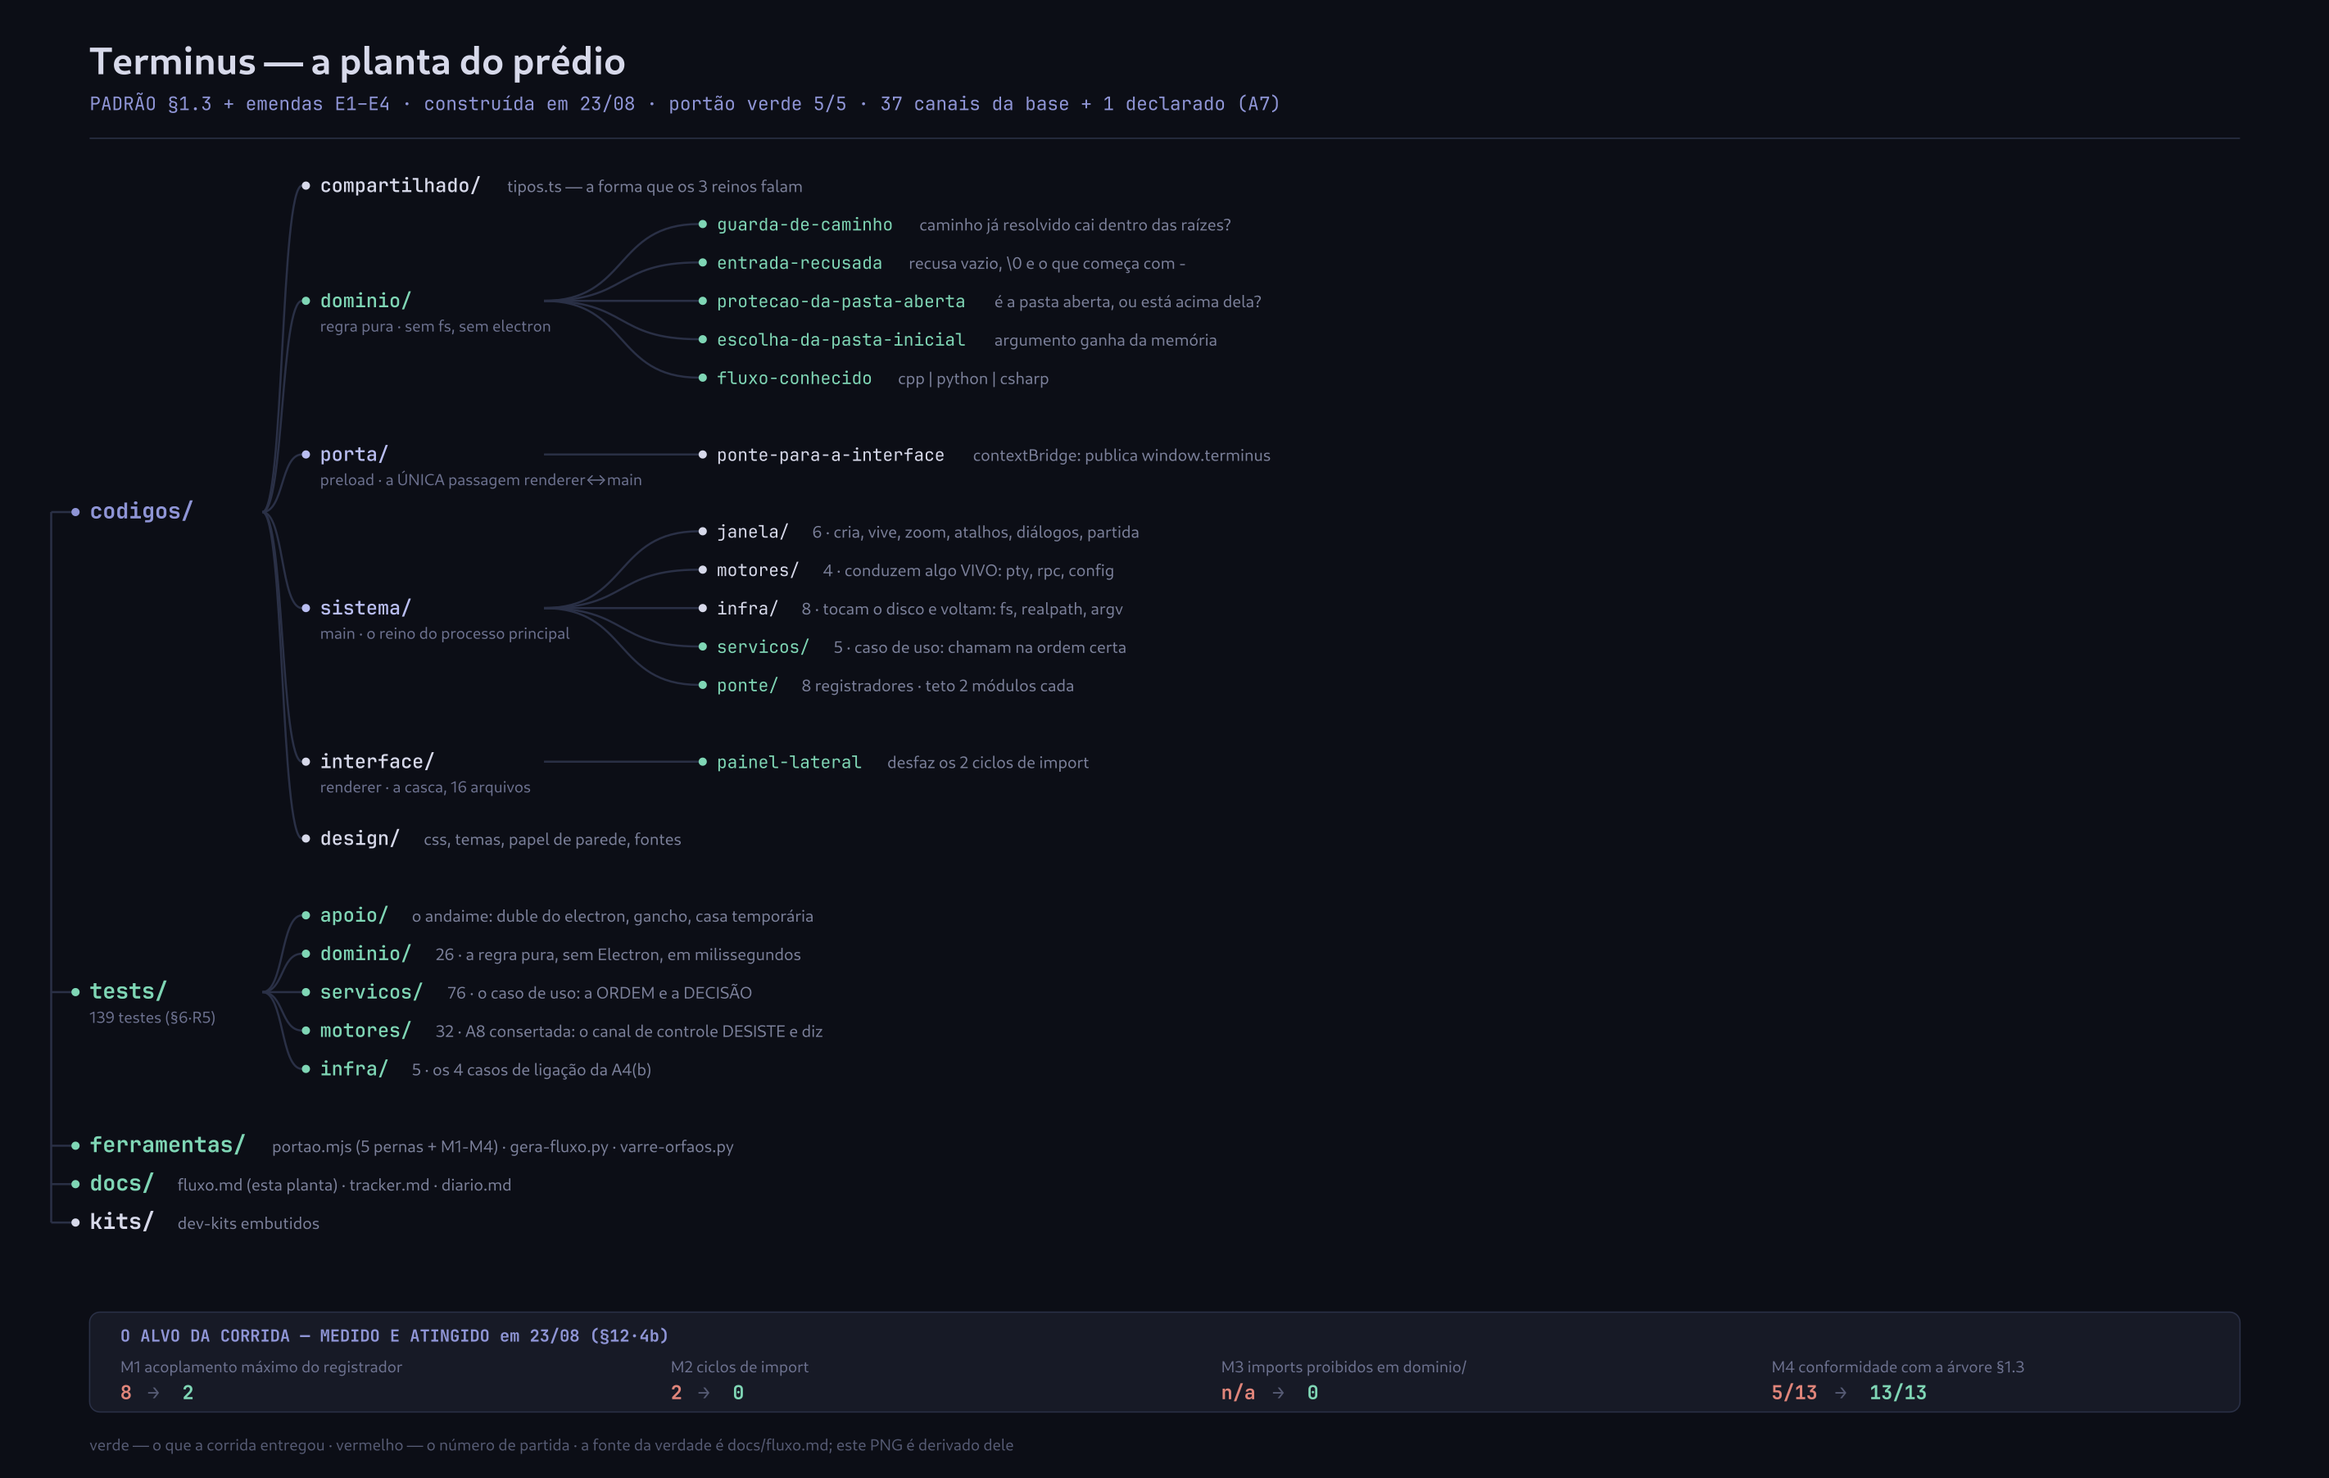
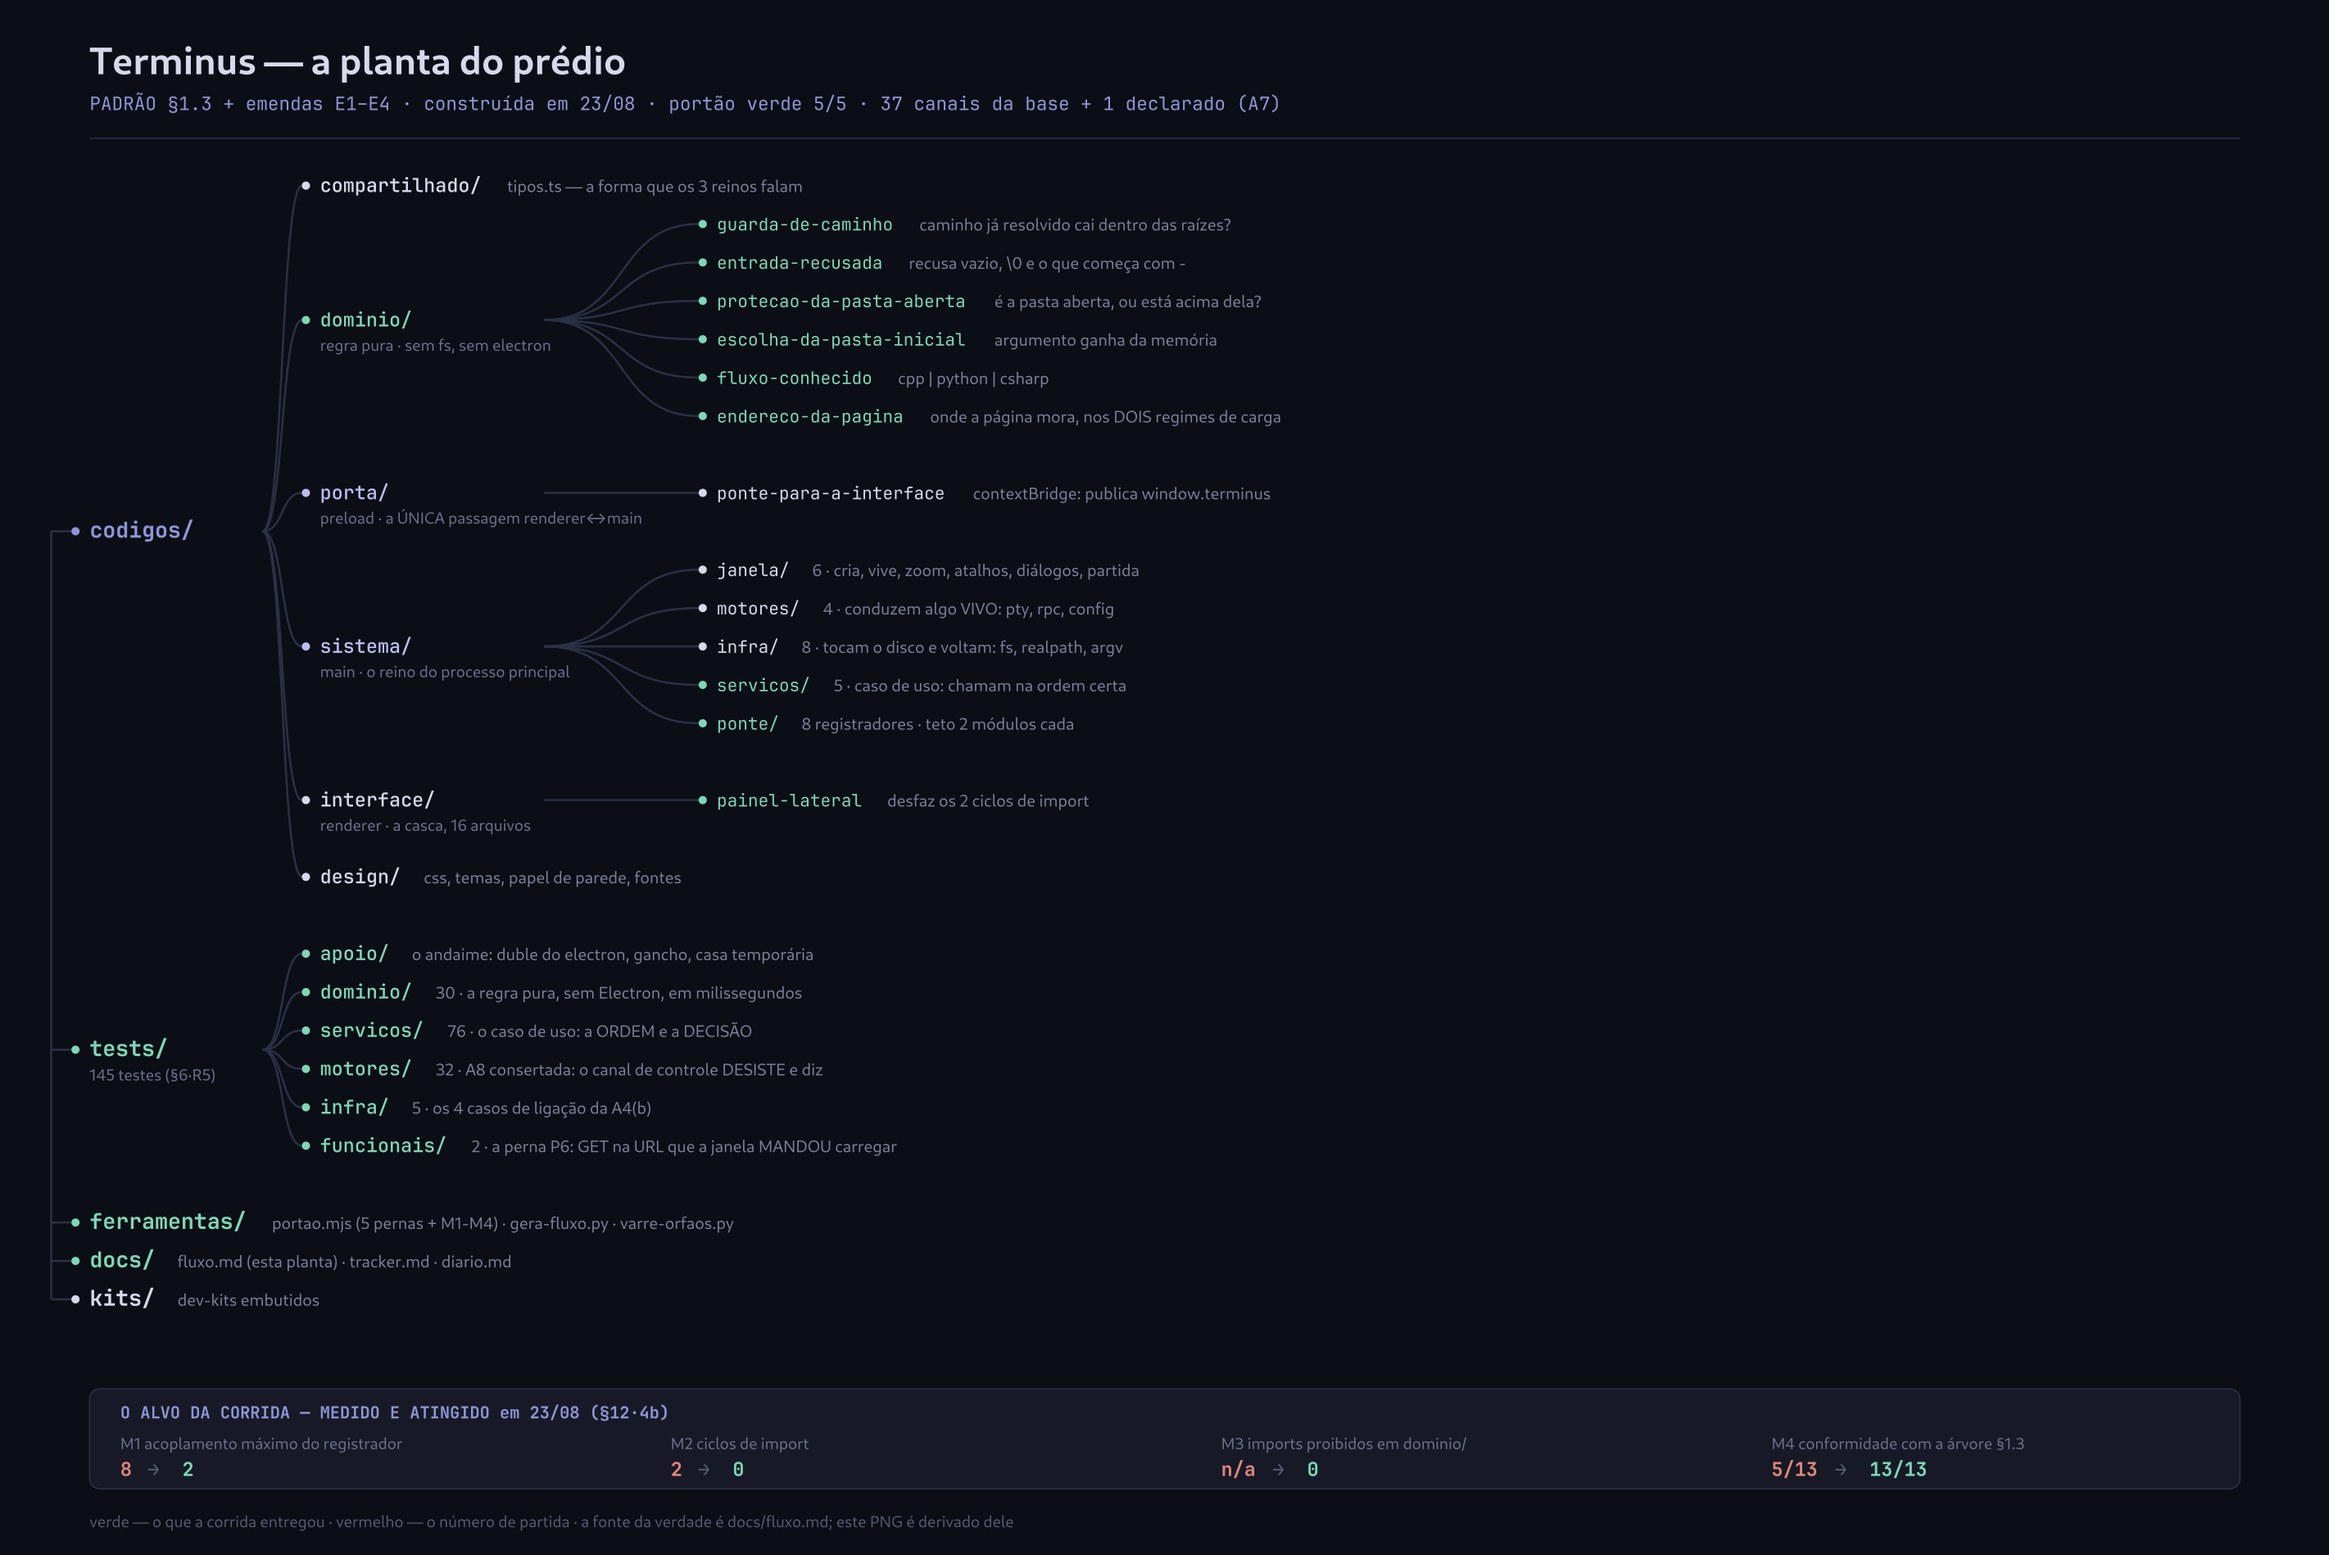
a planta acompanha o conserto: dominio novo, tests/funcionais e 139 -> 145
O gerador do PNG guarda a arvore DENTRO dele, entao mexer so no fluxo.md deixaria
o desenho mentindo. Os dois foram atualizados juntos: `endereco-da-pagina` entra
em dominio/, `tests/funcionais/` nasce como ramo, tests vai de 139 para 145 e o
ramo dominio dos testes de 26 para 30.

Receita seguida: a do cabecalho de gera-fluxo.py -- `python3` sem redirecionar,
depois `magick -background none -density 150 ... -strip`. A SEGUNDA receita, a de
fluxo.md:431, continua errada e continua sendo a arvore A13, em aberto: nao a usei
e nao a consertei.

Conferido, e nao por confianca: SVG 1820x1215 -> PNG 2843x1898, contra os
2844x1898 que 150/96 preve (1 px de arredondamento). E ABRI a imagem: os dois nos
novos aparecem com conector, rotulo e descricao, sem sobreposicao -- gerar nao e
aparecer, e isso ja custou duas vezes neste projeto.

A nota do desvio de planta foi atualizada em vez de apagada: tests/funcionais/
deixou de ser vao, mas a planta o pedia para A CONDUTA, que continua sendo a P5.
O desvio segue de pe e segue sendo da cabeca.

diff --git a/ferramentas/gera-fluxo.py b/ferramentas/gera-fluxo.py
@@ -48,7 +48,8 @@ raizes = [
       no("entrada-recusada",         "recusa vazio, \\0 e o que começa com ‑", NOVO),
       no("protecao-da-pasta-aberta", "é a pasta aberta, ou está acima dela?", NOVO),
       no("escolha-da-pasta-inicial", "argumento ganha da memória", NOVO),
-      no("fluxo-conhecido",          "cpp | python | csharp", NOVO)]),
+      no("fluxo-conhecido",          "cpp | python | csharp", NOVO),
+      no("endereco-da-pagina",       "onde a página mora, nos DOIS regimes de carga", NOVO)]),
    no("porta/", "preload · a ÚNICA passagem renderer↔main", ACENTO, [
       no("ponte-para-a-interface", "contextBridge: publica window.terminus", FG)]),
    no("sistema/", "main · o reino do processo principal", ACENTO, [
@@ -60,12 +61,13 @@ raizes = [
    no("interface/", "renderer · a casca, 16 arquivos", FG, [
       no("painel-lateral", "desfaz os 2 ciclos de import", NOVO)]),
    no("design/", "css, temas, papel de parede, fontes", FG)]),
- no("tests/", "139 testes (§6·R5)", NOVO, [
+ no("tests/", "145 testes (§6·R5)", NOVO, [
    no("apoio/",    "o andaime: duble do electron, gancho, casa temporária", NOVO),
-   no("dominio/",  "26 · a regra pura, sem Electron, em milissegundos", NOVO),
+   no("dominio/",  "30 · a regra pura, sem Electron, em milissegundos", NOVO),
    no("servicos/", "76 · o caso de uso: a ORDEM e a DECISÃO", NOVO),
    no("motores/",  "32 · A8 consertada: o canal de controle DESISTE e diz", NOVO),
-   no("infra/",    "5 · os 4 casos de ligação da A4(b)", NOVO)]),
+   no("infra/",    "5 · os 4 casos de ligação da A4(b)", NOVO),
+   no("funcionais/", "2 · a perna P6: GET na URL que a janela MANDOU carregar", NOVO)]),
  no("ferramentas/", "portao.mjs (5 pernas + M1-M4) · gera-fluxo.py · varre-orfaos.py", NOVO),
  no("docs/", "fluxo.md (esta planta) · tracker.md · diario.md", NOVO),
  no("kits/", "dev-kits embutidos", FG),

diff --git a/docs/fluxo.md b/docs/fluxo.md
@@ -30,6 +30,13 @@
 > continua sendo M1–M4 no portão, e conduta de tela continua sendo só a P5. `npm run teste`
 > ainda não pega quebra de arquitetura.
 >
+> ✅ **A corrida 7 (24/08) fez `tests/funcionais/` NASCER — e ele fecha METADE de meia coisa.**
+> A pasta existe e tem um morador: a perna **P6**, que sobe o servidor de `dev` e faz `GET` na
+> página que a janela de verdade mandou carregar. Mas a planta pedia `funcionais/` para **a
+> conduta**, e conduta de tela continua sendo a **P5**, que mora no portão. Então: a pasta
+> deixou de ser vão, `arquitetura/` continua não existindo, e **o desvio segue de pé** — e
+> segue sendo da cabeça.
+>
 > ⚠ **Uma correção de medida, feita depois da aprovação:** onde estava escrito `M1 = 7`, o certo
 > é **8**. O E2 diz *"quantos módulos de `sistema/` o registrador **importa**"*, e isso é
 > contagem de arquivo. O 7 era o alcance do CORPO de `registrarPonte`, que deixa de fora
@@ -105,7 +112,8 @@ Terminus/
 │   │   ├── entrada-recusada.ts         recusa string vazia, com \0, ou que comece com "-"
 │   │   ├── protecao-da-pasta-aberta.ts decide: o alvo é a pasta aberta, ou está acima dela?
 │   │   ├── escolha-da-pasta-inicial.ts decide qual pasta abrir: argumento ganha da memória
-│   │   └── fluxo-conhecido.ts          decide se um rótulo é fluxo válido (cpp|python|csharp)
+│   │   ├── fluxo-conhecido.ts          decide se um rótulo é fluxo válido (cpp|python|csharp)
+│   │   └── endereco-da-pagina.ts       decide onde a página do renderer mora, nos DOIS regimes
 │   │
 │   ├── porta/          (preload)       O REINO DA PORTA — a ÚNICA passagem renderer↔main
 │   │   └── ponte-para-a-interface.ts   contextBridge: publica window.terminus e mais nada
@@ -176,19 +184,20 @@ Terminus/
 │   │
 │   └── design/                         css, temas, papel de parede, fontes embutidas
 │
-├── tests/                              ESPELHA codigos/ (§6·R5) — 139 testes
+├── tests/                              ESPELHA codigos/ (§6·R5) — 145 testes
 │   ├── apoio/                          o andaime: nao e teste, e o que deixa testar
 │   │   ├── gancho-de-modulos.ts            electron -> duble, ./x.js -> ./x.ts, HOME+TMPDIR temp
 │   │   ├── electron-duble.ts               as 6 portas do main + o registro de ORDEM
 │   │   ├── casa-de-teste.ts                fixtures em disco dentro da casa temporaria
 │   │   ├── neovim-falso.ts                 servidor msgpack-RPC de verdade, p/ o canal de controle
 │   │   └── rejeicoes-nao-tratadas.ts       captura toda rejeicao nao tratada; a suite exige ZERO
-│   ├── dominio/                        unidade: a regra pura, sem subir Electron   26
+│   ├── dominio/                        unidade: a regra pura, sem subir Electron   30
 │   │   ├── guarda-de-caminho.test.ts       6 testes
 │   │   ├── entrada-recusada.test.ts        6
 │   │   ├── protecao-da-pasta-aberta.test.ts 6
 │   │   ├── escolha-da-pasta-inicial.test.ts 4
-│   │   └── fluxo-conhecido.test.ts          4
+│   │   ├── fluxo-conhecido.test.ts          4
+│   │   └── endereco-da-pagina.test.ts       4  os 2 regimes de carga da página
 │   ├── servicos/                       caso de uso: a ORDEM e a DECISAO             76
 │   │   ├── escrita-confinada.test.ts       25  as 3 etapas do confinado + A3(a) + A10
 │   │   ├── leitura-de-arquivo.test.ts      10  as 2 recusas e a NAO-recusa proposital
@@ -202,8 +211,10 @@ Terminus/
 │   │   ├── motor-do-shell-pty.test.ts       7  a conduta da A2: sem konsole, RECUSA
 │   │   ├── controle-neovim-rpc.test.ts      6  A8: sem Neovim, DESISTE e diz a frase
 │   │   └── controle-neovim-rpc-mudo.test.ts 4  A8: socket que aceita e nao fala
-│   └── infra/                          I/O concreto que nao e motor                  5
-│       └── kits-embutidos.test.ts           5  os 4 casos de ligacao da A4(b)
+│   ├── infra/                          I/O concreto que nao e motor                  5
+│   │   └── kits-embutidos.test.ts           5  os 4 casos de ligacao da A4(b)
+│   └── funcionais/                     a perna P6: sobe servidor de dev, sem tela      2
+│       └── carga-da-pagina-em-dev.test.ts   2  GET na URL que a janela MANDOU carregar
 │
 ├── ferramentas/
 │   ├── portao.mjs                      roda as 5 pernas do portão e dá o veredito (§12·4)
